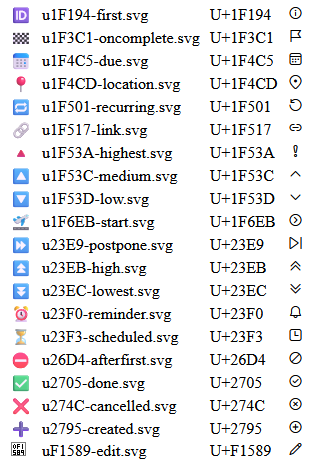
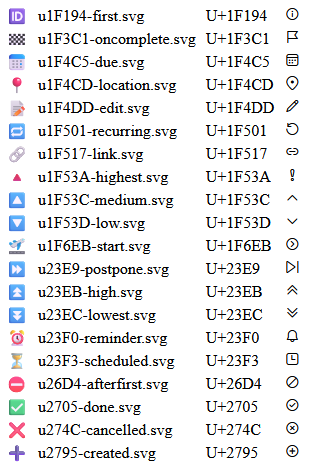
Fix unicode for the "edit" emoji

Changed region(s): [[0.0288, 0.0, 0.6346, 0.9872], [0.6635, 0.0, 0.9808, 0.9872]]

diff --git a/TasksMonoEmojis-fluenticons/TasksMonoEmojis-fluenticons.html b/TasksMonoEmojis-fluenticons/TasksMonoEmojis-fluenticons.html
@@ -27,9 +27,9 @@ SOFTWARE.
 */
 @font-face {
     font-family: 'TasksMonoEmojis';
[1 lines of base64/hex data omitted]
-    unicode-range: U+1F194, U+1F3C1, U+1F4C5, U+1F4CD, U+1F501, U+1F517, U+1F53A, U+1F53C, U+1F53D, U+1F6EB, U+23E9, U+23EB, U+23EC, U+23F0, U+23F3, U+26D4, U+2705, U+274C, U+2795, U+F1589;
-    /* 🆔, 🏁, 📅, 📍, 🔁, 🔗, 🔺, 🔼, 🔽, 🛫, ⏩, ⏫, ⏬, ⏰, ⏳, ⛔, ✅, ❌, ➕,  */
[1 lines of base64/hex data omitted]
+    unicode-range: U+1F194, U+1F3C1, U+1F4C5, U+1F4CD, U+1F4DD, U+1F501, U+1F517, U+1F53A, U+1F53C, U+1F53D, U+1F6EB, U+23E9, U+23EB, U+23EC, U+23F0, U+23F3, U+26D4, U+2705, U+274C, U+2795;
+    /* 🆔, 🏁, 📅, 📍, 📝, 🔁, 🔗, 🔺, 🔼, 🔽, 🛫, ⏩, ⏫, ⏬, ⏰, ⏳, ⛔, ✅, ❌, ➕ */
     /*! Generator: obsidian-tasks-custom-icons v1.0.4 https://github.com/obsidian-tasks-group/obsidian-tasks-custom-icons */
 }
 
@@ -37,4 +37,4 @@ tr td:last-child {font-family: 'TasksMonoEmojis', sans-serif; text-align:center}
 td {padding:0 4px;}
 </style>
 <table><tbody>
-<tr><td>🆔</td><td>u1F194-first.svg</td><td>U+1F194</td><td>🆔</td></tr><tr><td>🏁</td><td>u1F3C1-oncomplete.svg</td><td>U+1F3C1</td><td>🏁</td></tr><tr><td>📅</td><td>u1F4C5-due.svg</td><td>U+1F4C5</td><td>📅</td></tr><tr><td>📍</td><td>u1F4CD-location.svg</td><td>U+1F4CD</td><td>📍</td></tr><tr><td>🔁</td><td>u1F501-recurring.svg</td><td>U+1F501</td><td>🔁</td></tr><tr><td>🔗</td><td>u1F517-link.svg</td><td>U+1F517</td><td>🔗</td></tr><tr><td>🔺</td><td>u1F53A-highest.svg</td><td>U+1F53A</td><td>🔺</td></tr><tr><td>🔼</td><td>u1F53C-medium.svg</td><td>U+1F53C</td><td>🔼</td></tr><tr><td>🔽</td><td>u1F53D-low.svg</td><td>U+1F53D</td><td>🔽</td></tr><tr><td>🛫</td><td>u1F6EB-start.svg</td><td>U+1F6EB</td><td>🛫</td></tr><tr><td>⏩</td><td>u23E9-postpone.svg</td><td>U+23E9</td><td>⏩</td></tr><tr><td>⏫</td><td>u23EB-high.svg</td><td>U+23EB</td><td>⏫</td></tr><tr><td>⏬</td><td>u23EC-lowest.svg</td><td>U+23EC</td><td>⏬</td></tr><tr><td>⏰</td><td>u23F0-reminder.svg</td><td>U+23F0</td><td>⏰</td></tr><tr><td>⏳</td><td>u23F3-scheduled.svg</td><td>U+23F3</td><td>⏳</td></tr><tr><td>⛔</td><td>u26D4-afterfirst.svg</td><td>U+26D4</td><td>⛔</td></tr><tr><td>✅</td><td>u2705-done.svg</td><td>U+2705</td><td>✅</td></tr><tr><td>❌</td><td>u274C-cancelled.svg</td><td>U+274C</td><td>❌</td></tr><tr><td>➕</td><td>u2795-created.svg</td><td>U+2795</td><td>➕</td></tr><tr><td></td><td>uF1589-edit.svg</td><td>U+F1589</td><td></td></tr></tbody></table>
+<tr><td>🆔</td><td>u1F194-first.svg</td><td>U+1F194</td><td>🆔</td></tr><tr><td>🏁</td><td>u1F3C1-oncomplete.svg</td><td>U+1F3C1</td><td>🏁</td></tr><tr><td>📅</td><td>u1F4C5-due.svg</td><td>U+1F4C5</td><td>📅</td></tr><tr><td>📍</td><td>u1F4CD-location.svg</td><td>U+1F4CD</td><td>📍</td></tr><tr><td>📝</td><td>u1F4DD-edit.svg</td><td>U+1F4DD</td><td>📝</td></tr><tr><td>🔁</td><td>u1F501-recurring.svg</td><td>U+1F501</td><td>🔁</td></tr><tr><td>🔗</td><td>u1F517-link.svg</td><td>U+1F517</td><td>🔗</td></tr><tr><td>🔺</td><td>u1F53A-highest.svg</td><td>U+1F53A</td><td>🔺</td></tr><tr><td>🔼</td><td>u1F53C-medium.svg</td><td>U+1F53C</td><td>🔼</td></tr><tr><td>🔽</td><td>u1F53D-low.svg</td><td>U+1F53D</td><td>🔽</td></tr><tr><td>🛫</td><td>u1F6EB-start.svg</td><td>U+1F6EB</td><td>🛫</td></tr><tr><td>⏩</td><td>u23E9-postpone.svg</td><td>U+23E9</td><td>⏩</td></tr><tr><td>⏫</td><td>u23EB-high.svg</td><td>U+23EB</td><td>⏫</td></tr><tr><td>⏬</td><td>u23EC-lowest.svg</td><td>U+23EC</td><td>⏬</td></tr><tr><td>⏰</td><td>u23F0-reminder.svg</td><td>U+23F0</td><td>⏰</td></tr><tr><td>⏳</td><td>u23F3-scheduled.svg</td><td>U+23F3</td><td>⏳</td></tr><tr><td>⛔</td><td>u26D4-afterfirst.svg</td><td>U+26D4</td><td>⛔</td></tr><tr><td>✅</td><td>u2705-done.svg</td><td>U+2705</td><td>✅</td></tr><tr><td>❌</td><td>u274C-cancelled.svg</td><td>U+274C</td><td>❌</td></tr><tr><td>➕</td><td>u2795-created.svg</td><td>U+2795</td><td>➕</td></tr></tbody></table>

diff --git a/TasksMonoEmojis-fluenticons/TasksMonoEmojis-fluenticons.css b/TasksMonoEmojis-fluenticons/TasksMonoEmojis-fluenticons.css
@@ -25,9 +25,9 @@ SOFTWARE.
 */
 @font-face {
     font-family: 'TasksMonoEmojis';
[1 lines of base64/hex data omitted]
-    unicode-range: U+1F194, U+1F3C1, U+1F4C5, U+1F4CD, U+1F501, U+1F517, U+1F53A, U+1F53C, U+1F53D, U+1F6EB, U+23E9, U+23EB, U+23EC, U+23F0, U+23F3, U+26D4, U+2705, U+274C, U+2795, U+F1589;
-    /* 🆔, 🏁, 📅, 📍, 🔁, 🔗, 🔺, 🔼, 🔽, 🛫, ⏩, ⏫, ⏬, ⏰, ⏳, ⛔, ✅, ❌, ➕,  */
[1 lines of base64/hex data omitted]
+    unicode-range: U+1F194, U+1F3C1, U+1F4C5, U+1F4CD, U+1F4DD, U+1F501, U+1F517, U+1F53A, U+1F53C, U+1F53D, U+1F6EB, U+23E9, U+23EB, U+23EC, U+23F0, U+23F3, U+26D4, U+2705, U+274C, U+2795;
+    /* 🆔, 🏁, 📅, 📍, 📝, 🔁, 🔗, 🔺, 🔼, 🔽, 🛫, ⏩, ⏫, ⏬, ⏰, ⏳, ⛔, ✅, ❌, ➕ */
     /*! Generator: obsidian-tasks-custom-icons v1.0.4 https://github.com/obsidian-tasks-group/obsidian-tasks-custom-icons */
 }
 
